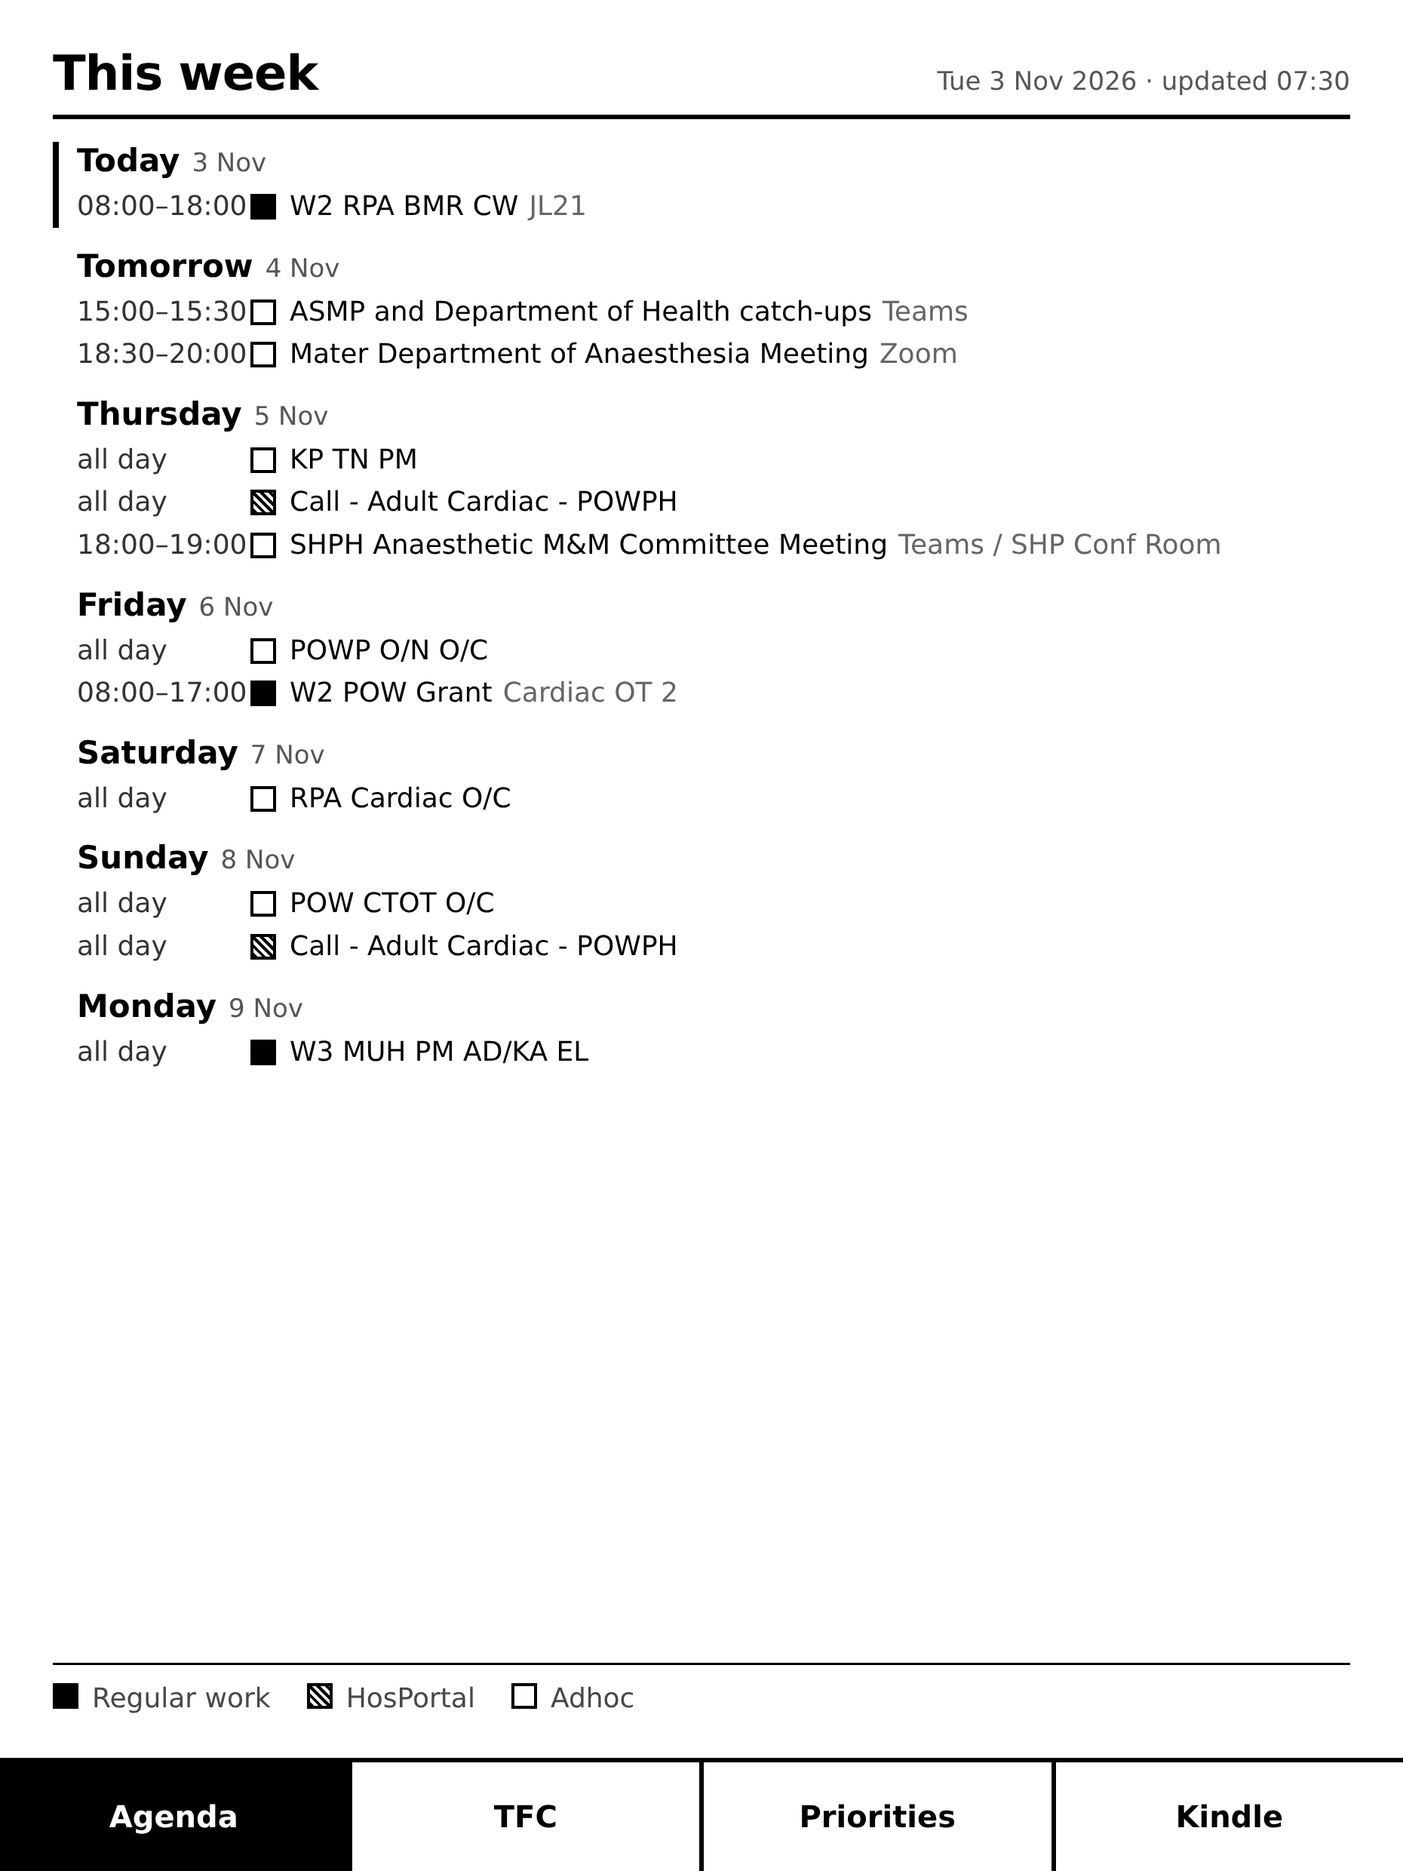
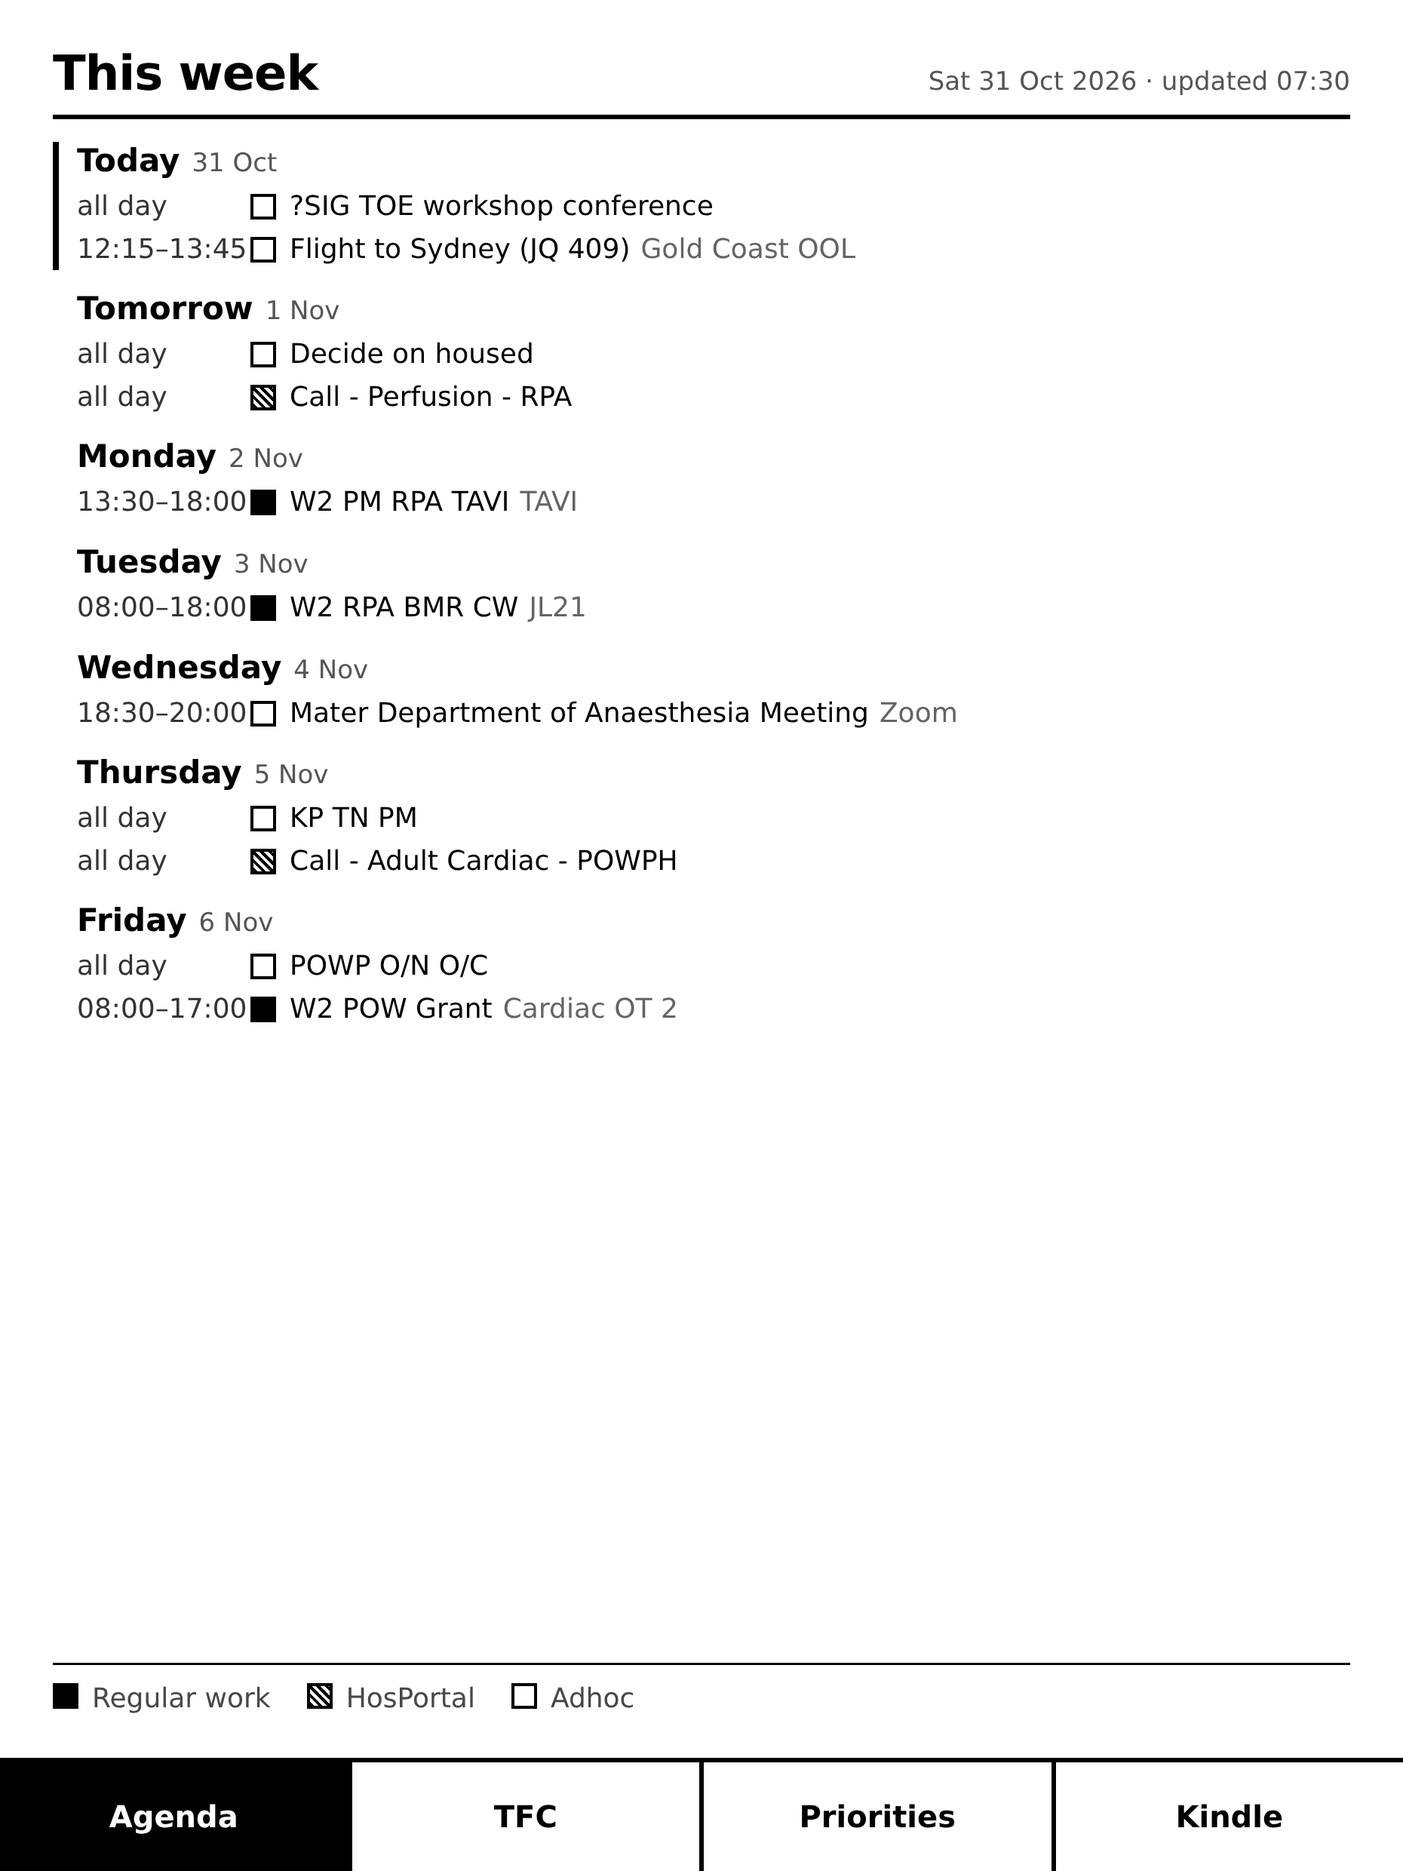
Agenda: hide.txt filter, HosPortal on-call dedupe against Adhoc O/C, real date
Claude-Session: https://claude.ai/code/session_011br8fb3fSefWnZdc52BCSJ

diff --git a/mock/month.html b/mock/month.html
@@ -73,4 +73,4 @@ td .m{width:20px;height:20px;border:3px solid #000;margin:0 10px 0 0;flex:none}
 .pi .cb{width:36px;height:36px;border:4px solid #000;flex:none;margin-top:12px}
 .sec.dec .pi .cb{border-radius:50%}
 .pi .due{margin-left:auto;color:#666;white-space:nowrap;padding-left:20px}
-</style></head><body><div class="hdr"><h1>November 2026</h1><span class="sub">updated 07:30</span></div><table><tr><th>Mon</th><th>Tue</th><th>Wed</th><th>Thu</th><th>Fri</th><th>Sat</th><th>Sun</th></tr><tr style="height:323px"><td class=" other"><div class="n">26</div></td><td class=" other"><div class="n">27</div></td><td class=" other"><div class="n">28</div></td><td class=" other"><div class="n">29</div></td><td class=" other"><div class="n">30</div><div class="e adhoc"><span class="m"></span>?SIG TOE workshop conference</div></td><td class=" other"><div class="n">31</div><div class="e adhoc"><span class="m"></span>?SIG TOE workshop conference</div><div class="e adhoc"><span class="m"></span>12:15 Flight to Sydney (JQ 409)</div></td><td class=""><div class="n">1</div><div class="e adhoc"><span class="m"></span>Decide on housed</div><div class="e hos"><span class="m"></span>Call - Perfusion - RPA</div></td></tr><tr style="height:323px"><td class=""><div class="n">2</div><div class="e work"><span class="m"></span>13:30 W2 PM RPA TAVI</div></td><td class="today"><div class="n">3</div><div class="e work"><span class="m"></span>08:00 W2 RPA BMR CW</div></td><td class=""><div class="n">4</div><div class="e adhoc"><span class="m"></span>15:00 ASMP and Department of Health catch-ups</div><div class="e adhoc"><span class="m"></span>18:30 Mater Department of Anaesthesia Meeting</div></td><td class=""><div class="n">5</div><div class="e adhoc"><span class="m"></span>KP TN PM</div><div class="e hos"><span class="m"></span>Call - Adult Cardiac - POWPH</div><div class="e adhoc"><span class="m"></span>18:00 SHPH Anaesthetic M&amp;M Committee Meeting</div></td><td class=""><div class="n">6</div><div class="e adhoc"><span class="m"></span>POWP O/N O/C</div><div class="e work"><span class="m"></span>08:00 W2 POW Grant</div></td><td class=""><div class="n">7</div><div class="e adhoc"><span class="m"></span>RPA Cardiac O/C</div></td><td class=""><div class="n">8</div><div class="e adhoc"><span class="m"></span>POW CTOT O/C</div><div class="e hos"><span class="m"></span>Call - Adult Cardiac - POWPH</div></td></tr><tr style="height:323px"><td class=""><div class="n">9</div><div class="e work"><span class="m"></span>W3 MUH PM AD/KA EL</div></td><td class=""><div class="n">10</div><div class="e work"><span class="m"></span>W3 StGP GS</div></td><td class=""><div class="n">11</div><div class="e adhoc"><span class="m"></span>KP TN PM</div></td><td class=""><div class="n">12</div></td><td class=""><div class="n">13</div><div class="e work"><span class="m"></span>W3 Norwest AM ZH</div><div class="e work"><span class="m"></span>W3 MUH PM ZH</div></td><td class=""><div class="n">14</div><div class="e adhoc"><span class="m"></span>Kiats/Sumo</div></td><td class=""><div class="n">15</div></td></tr><tr style="height:323px"><td class=""><div class="n">16</div></td><td class=""><div class="n">17</div><div class="e work"><span class="m"></span>W4 RPA CQC JI</div></td><td class=""><div class="n">18</div><div class="e work"><span class="m"></span>W4 SSWP GS</div></td><td class=""><div class="n">19</div><div class="e work"><span class="m"></span>W4 NW ZH PM</div></td><td class=""><div class="n">20</div><div class="e work"><span class="m"></span>W4 StGP GS PM</div></td><td class=""><div class="n">21</div></td><td class=""><div class="n">22</div></td></tr><tr style="height:323px"><td class=""><div class="n">23</div><div class="e work"><span class="m"></span>W1 MUH PM AD/KA</div></td><td class=""><div class="n">24</div><div class="e adhoc"><span class="m"></span>POW Grant</div><div class="e hos"><span class="m"></span>08:00 ! Grant - POWPH</div><div class="e hos"><span class="m"></span>12:30 ! Grant - POWPH</div></td><td class=""><div class="n">25</div></td><td class=""><div class="n">26</div><div class="e adhoc"><span class="m"></span>POWP Keogh AM</div><div class="e adhoc"><span class="m"></span>13:00 Keogh Private Theatres</div></td><td class=""><div class="n">27</div><div class="e work"><span class="m"></span>W1 TAVI NG/EL</div></td><td class=""><div class="n">28</div></td><td class=""><div class="n">29</div></td></tr><tr style="height:323px"><td class=""><div class="n">30</div></td><td class=" other"><div class="n">1</div></td><td class=" other"><div class="n">2</div></td><td class=" other"><div class="n">3</div></td><td class=" other"><div class="n">4</div></td><td class=" other"><div class="n">5</div></td><td class=" other"><div class="n">6</div></td></tr></table><div class="legend"><span class="ev work"><span class="m"></span>Regular work</span><span class="ev hos"><span class="m"></span>HosPortal</span><span class="ev adhoc"><span class="m"></span>Adhoc</span></div><div class="nav"><div class="on">Agenda</div><div class="">TFC</div><div class="">Priorities</div><div class="">Kindle</div></div></body></html>
+</style></head><body><div class="hdr"><h1>October 2026</h1><span class="sub">updated 07:30</span></div><table><tr><th>Mon</th><th>Tue</th><th>Wed</th><th>Thu</th><th>Fri</th><th>Sat</th><th>Sun</th></tr><tr style="height:388px"><td class=" other"><div class="n">28</div></td><td class=" other"><div class="n">29</div></td><td class=" other"><div class="n">30</div></td><td class=""><div class="n">1</div></td><td class=""><div class="n">2</div></td><td class=""><div class="n">3</div></td><td class=""><div class="n">4</div></td></tr><tr style="height:388px"><td class=""><div class="n">5</div></td><td class=""><div class="n">6</div></td><td class=""><div class="n">7</div></td><td class=""><div class="n">8</div></td><td class=""><div class="n">9</div></td><td class=""><div class="n">10</div></td><td class=""><div class="n">11</div></td></tr><tr style="height:388px"><td class=""><div class="n">12</div></td><td class=""><div class="n">13</div></td><td class=""><div class="n">14</div></td><td class=""><div class="n">15</div></td><td class=""><div class="n">16</div></td><td class=""><div class="n">17</div></td><td class=""><div class="n">18</div></td></tr><tr style="height:388px"><td class=""><div class="n">19</div></td><td class=""><div class="n">20</div></td><td class=""><div class="n">21</div></td><td class=""><div class="n">22</div></td><td class=""><div class="n">23</div></td><td class=""><div class="n">24</div></td><td class=""><div class="n">25</div></td></tr><tr style="height:388px"><td class=""><div class="n">26</div></td><td class=""><div class="n">27</div></td><td class=""><div class="n">28</div></td><td class=""><div class="n">29</div></td><td class=""><div class="n">30</div><div class="e adhoc"><span class="m"></span>?SIG TOE workshop conference</div></td><td class="today"><div class="n">31</div><div class="e adhoc"><span class="m"></span>?SIG TOE workshop conference</div><div class="e adhoc"><span class="m"></span>12:15 Flight to Sydney (JQ 409)</div></td><td class=" other"><div class="n">1</div><div class="e adhoc"><span class="m"></span>Decide on housed</div><div class="e hos"><span class="m"></span>Call - Perfusion - RPA</div></td></tr></table><div class="legend"><span class="ev work"><span class="m"></span>Regular work</span><span class="ev hos"><span class="m"></span>HosPortal</span><span class="ev adhoc"><span class="m"></span>Adhoc</span></div><div class="nav"><div class="on">Agenda</div><div class="">TFC</div><div class="">Priorities</div><div class="">Kindle</div></div></body></html>

diff --git a/mock/agenda.html b/mock/agenda.html
@@ -73,4 +73,4 @@ td .m{width:20px;height:20px;border:3px solid #000;margin:0 10px 0 0;flex:none}
 .pi .cb{width:36px;height:36px;border:4px solid #000;flex:none;margin-top:12px}
 .sec.dec .pi .cb{border-radius:50%}
 .pi .due{margin-left:auto;color:#666;white-space:nowrap;padding-left:20px}
-</style></head><body><div class="hdr"><h1>This week</h1><span class="sub">Tue 3 Nov 2026 · updated 07:30</span></div><div class="day today"><h2>Today<span>3 Nov</span></h2><div class="ev work"><span class="t">08:00–18:00</span><span class="m"></span><span>W2 RPA BMR CW<span class="loc">JL21</span></span></div></div><div class="day "><h2>Tomorrow<span>4 Nov</span></h2><div class="ev adhoc"><span class="t">15:00–15:30</span><span class="m"></span><span>ASMP and Department of Health catch-ups<span class="loc">Teams</span></span></div><div class="ev adhoc"><span class="t">18:30–20:00</span><span class="m"></span><span>Mater Department of Anaesthesia Meeting<span class="loc">Zoom</span></span></div></div><div class="day "><h2>Thursday<span>5 Nov</span></h2><div class="ev adhoc"><span class="t">all day</span><span class="m"></span><span>KP TN PM</span></div><div class="ev hos"><span class="t">all day</span><span class="m"></span><span>Call - Adult Cardiac - POWPH</span></div><div class="ev adhoc"><span class="t">18:00–19:00</span><span class="m"></span><span>SHPH Anaesthetic M&amp;M Committee Meeting<span class="loc">Teams / SHP Conf Room</span></span></div></div><div class="day "><h2>Friday<span>6 Nov</span></h2><div class="ev adhoc"><span class="t">all day</span><span class="m"></span><span>POWP O/N O/C</span></div><div class="ev work"><span class="t">08:00–17:00</span><span class="m"></span><span>W2 POW Grant<span class="loc">Cardiac OT 2</span></span></div></div><div class="day "><h2>Saturday<span>7 Nov</span></h2><div class="ev adhoc"><span class="t">all day</span><span class="m"></span><span>RPA Cardiac O/C</span></div></div><div class="day "><h2>Sunday<span>8 Nov</span></h2><div class="ev adhoc"><span class="t">all day</span><span class="m"></span><span>POW CTOT O/C</span></div><div class="ev hos"><span class="t">all day</span><span class="m"></span><span>Call - Adult Cardiac - POWPH</span></div></div><div class="day "><h2>Monday<span>9 Nov</span></h2><div class="ev work"><span class="t">all day</span><span class="m"></span><span>W3 MUH PM AD/KA EL</span></div></div><div class="legend"><span class="ev work"><span class="m"></span>Regular work</span><span class="ev hos"><span class="m"></span>HosPortal</span><span class="ev adhoc"><span class="m"></span>Adhoc</span></div><div class="nav"><div class="on">Agenda</div><div class="">TFC</div><div class="">Priorities</div><div class="">Kindle</div></div></body></html>
+</style></head><body><div class="hdr"><h1>This week</h1><span class="sub">Sat 31 Oct 2026 · updated 07:30</span></div><div class="day today"><h2>Today<span>31 Oct</span></h2><div class="ev adhoc"><span class="t">all day</span><span class="m"></span><span>?SIG TOE workshop conference</span></div><div class="ev adhoc"><span class="t">12:15–13:45</span><span class="m"></span><span>Flight to Sydney (JQ 409)<span class="loc">Gold Coast OOL</span></span></div></div><div class="day "><h2>Tomorrow<span>1 Nov</span></h2><div class="ev adhoc"><span class="t">all day</span><span class="m"></span><span>Decide on housed</span></div><div class="ev hos"><span class="t">all day</span><span class="m"></span><span>Call - Perfusion - RPA</span></div></div><div class="day "><h2>Monday<span>2 Nov</span></h2><div class="ev work"><span class="t">13:30–18:00</span><span class="m"></span><span>W2 PM RPA TAVI<span class="loc">TAVI</span></span></div></div><div class="day "><h2>Tuesday<span>3 Nov</span></h2><div class="ev work"><span class="t">08:00–18:00</span><span class="m"></span><span>W2 RPA BMR CW<span class="loc">JL21</span></span></div></div><div class="day "><h2>Wednesday<span>4 Nov</span></h2><div class="ev adhoc"><span class="t">18:30–20:00</span><span class="m"></span><span>Mater Department of Anaesthesia Meeting<span class="loc">Zoom</span></span></div></div><div class="day "><h2>Thursday<span>5 Nov</span></h2><div class="ev adhoc"><span class="t">all day</span><span class="m"></span><span>KP TN PM</span></div><div class="ev hos"><span class="t">all day</span><span class="m"></span><span>Call - Adult Cardiac - POWPH</span></div></div><div class="day "><h2>Friday<span>6 Nov</span></h2><div class="ev adhoc"><span class="t">all day</span><span class="m"></span><span>POWP O/N O/C</span></div><div class="ev work"><span class="t">08:00–17:00</span><span class="m"></span><span>W2 POW Grant<span class="loc">Cardiac OT 2</span></span></div></div><div class="legend"><span class="ev work"><span class="m"></span>Regular work</span><span class="ev hos"><span class="m"></span>HosPortal</span><span class="ev adhoc"><span class="m"></span>Adhoc</span></div><div class="nav"><div class="on">Agenda</div><div class="">TFC</div><div class="">Priorities</div><div class="">Kindle</div></div></body></html>

diff --git a/mock/daily.html b/mock/daily.html
@@ -73,4 +73,4 @@ td .m{width:20px;height:20px;border:3px solid #000;margin:0 10px 0 0;flex:none}
 .pi .cb{width:36px;height:36px;border:4px solid #000;flex:none;margin-top:12px}
 .sec.dec .pi .cb{border-radius:50%}
 .pi .due{margin-left:auto;color:#666;white-space:nowrap;padding-left:20px}
-</style></head><body><div class="hdr"><h1>Tuesday 3 November</h1><span class="sub">updated 10:24</span></div><div class="allday"></div><div class="grid"><div class="hr" style="top:0.0px">07:00</div><div class="hr" style="top:131.42857142857142px">08:00</div><div class="hr" style="top:262.85714285714283px">09:00</div><div class="hr" style="top:394.2857142857142px">10:00</div><div class="hr" style="top:525.7142857142857px">11:00</div><div class="hr" style="top:657.1428571428571px">12:00</div><div class="hr" style="top:788.5714285714284px">13:00</div><div class="hr" style="top:919.9999999999999px">14:00</div><div class="hr" style="top:1051.4285714285713px">15:00</div><div class="hr" style="top:1182.8571428571427px">16:00</div><div class="hr" style="top:1314.2857142857142px">17:00</div><div class="hr" style="top:1445.7142857142856px">18:00</div><div class="hr" style="top:1577.1428571428569px">19:00</div><div class="hr" style="top:1708.5714285714284px">20:00</div><div class="hr now" style="top:446.8571428571429px"></div><div class="blk work" style="top:133.42857142857142px;height:1308.2857142857142px"><b>08:00</b> W2 RPA BMR CW<div class="loc">JL21</div></div></div><div class="legend"><span class="ev work"><span class="m"></span>Regular work</span><span class="ev hos"><span class="m"></span>HosPortal</span><span class="ev adhoc"><span class="m"></span>Adhoc</span></div><div class="nav"><div class="on">Agenda</div><div class="">TFC</div><div class="">Priorities</div><div class="">Kindle</div></div></body></html>
+</style></head><body><div class="hdr"><h1>Saturday 31 October</h1><span class="sub">updated 10:24</span></div><div class="allday"><span class="ev adhoc"><span class="m"></span>?SIG TOE workshop conference</span></div><div class="grid"><div class="hr" style="top:0.0px">07:00</div><div class="hr" style="top:131.42857142857142px">08:00</div><div class="hr" style="top:262.85714285714283px">09:00</div><div class="hr" style="top:394.2857142857142px">10:00</div><div class="hr" style="top:525.7142857142857px">11:00</div><div class="hr" style="top:657.1428571428571px">12:00</div><div class="hr" style="top:788.5714285714284px">13:00</div><div class="hr" style="top:919.9999999999999px">14:00</div><div class="hr" style="top:1051.4285714285713px">15:00</div><div class="hr" style="top:1182.8571428571427px">16:00</div><div class="hr" style="top:1314.2857142857142px">17:00</div><div class="hr" style="top:1445.7142857142856px">18:00</div><div class="hr" style="top:1577.1428571428569px">19:00</div><div class="hr" style="top:1708.5714285714284px">20:00</div><div class="hr now" style="top:446.8571428571429px"></div><div class="blk adhoc" style="top:691.9999999999999px;height:191.1428571428571px"><b>12:15</b> Flight to Sydney (JQ 409)<div class="loc">Gold Coast OOL</div></div></div><div class="legend"><span class="ev work"><span class="m"></span>Regular work</span><span class="ev hos"><span class="m"></span>HosPortal</span><span class="ev adhoc"><span class="m"></span>Adhoc</span></div><div class="nav"><div class="on">Agenda</div><div class="">TFC</div><div class="">Priorities</div><div class="">Kindle</div></div></body></html>

diff --git a/mock/render.py b/mock/render.py
@@ -5,7 +5,7 @@ from playwright.async_api import async_playwright
 from PIL import Image
 
 HERE = Path(__file__).parent
-TODAY = dt.date(2026, 11, 3)  # pretend it's a busy Tuesday so the mock has content
+TODAY = dt.date.today()  # real date; the live renderer does the same
 EV = json.loads((HERE / "events.json").read_text())
 for e in EV:
     e["d"] = dt.date.fromisoformat(e["date"])
@@ -61,7 +61,15 @@ def legend(): return ('<div class="legend"><span class="ev work"><span class="m"
 
 def events_on(d, merge=True):
     out = [dict(e) for e in EV if e["d"] == d or (e.get("end") and e["d"] <= d < dt.date.fromisoformat(e["end"]))]
+    hide = [l.strip().lower() for l in (HERE.parent / "hide.txt").read_text().splitlines() if l.strip() and not l.startswith("#")]
+    out = [e for e in out if not any(h in e["title"].lower() for h in hide)]
     if merge:
+        # HosPortal on-call duplicates an Adhoc "O/C" entry for the same hospital that day
+        def hosp(t):
+            t = t.upper()
+            return "POW" if "POW" in t or "PRINCE OF WALES" in t else "RPA" if "RPA" in t or "PRINCE ALFRED" in t else None
+        oc = {hosp(e["title"]) for e in out if e["cal"] == "adhoc" and "O/C" in e["title"].upper()}
+        out = [e for e in out if not (e["cal"] == "hos" and e["title"].startswith("Call") and hosp(e["title"]) in oc)]
         work = [e for e in out if e["cal"] == "work"]
         hos_alloc = [e for e in out if e["cal"] == "hos" and not e.get("allday")]
         if work and hos_alloc:
@@ -174,7 +182,7 @@ def tfc():
         f'<div class="x"><span>{(TOday()-dt.timedelta(13)).strftime("%-d %b")}</span><span>today</span></div></div>'
         f'<div class="box"><div class="l">Trials ending this fortnight</div>{ends}</div></div>'
         f'<div class="box grow" style="margin-top:28px"><div class="l">Pricing to-do</div>{acts}</div></div>')
-def TOday(): return dt.date(2026, 10, 31)
+def TOday(): return dt.date.today()
 
 def load_pri():
     secs, cur = [], None
